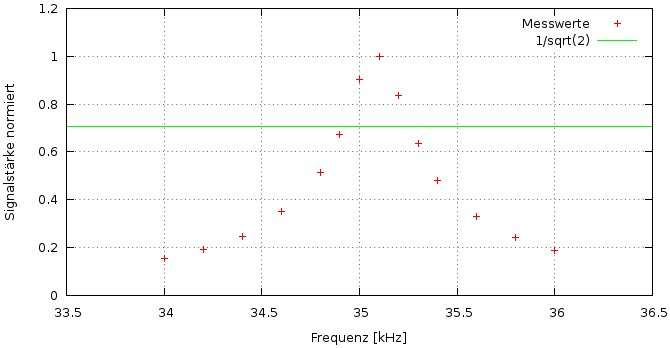
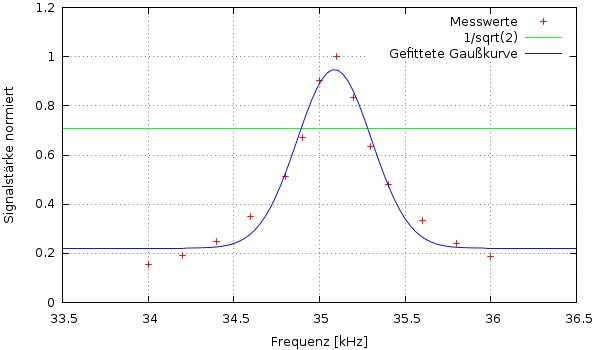
new file:   14.606 Suszeptibilitaet/daten/auswertung.ods 	modified:   14.606 Suszeptibilitaet/daten/daten 	modified:   14.606 Suszeptibilitaet/daten/ploot 	deleted:    14.606 Suszeptibilitaet/daten/werte.ods 	modified:   14.606 Suszeptibilitaet/pics/guete.jpg 	modified:   14.606 Suszeptibilitaet/pro

diff --git a/14.606 Suszeptibilitaet/protokoll.tex b/14.606 Suszeptibilitaet/protokoll.tex
@@ -192,9 +192,21 @@ Zu Beginn wird die Durchlassfrequenz des Selektiv-Verstärkers auf die Signalfre
 Ausgangsspannung gefunden hat, und gleicht die noch leere Brückenschaltung auf nahe 0 mV ab. Nun wird eine Probe eingeführt und die
 neue Brückenspannung gemessen. Zuletzt wird die Brücke erneut abgeglichen und der Wert von $\Delta R$ notiert. 
 
-\section{Auswertung Theoretisch}
+\section{Filterkurve}
+Zunächst soll die Güte des Selektivverstärkers untersucht werden. Hierzu stellt man eine beliebige Filterfrequenz ein und lässt Signale mit der selben Amplitute aber verschiedenen Frequenzen den Filter passieren. In folgendem Diagram ist die Signalamplitude gegen die Signalfrequenz aufgetragen. Die Filterfrequenz beträgt 35KHz und die Amplitude wurde auf 1 normiert.
+\begin{figure}[htbp]
+\includegraphics[width=0.8\textwidth]{pics/guete.jpg}
+\caption{Gaußfunktion: $e^{-a\cdot (x-c)^2}$ mit a = $10.6\pm 1.5$ und c = $35,08 \pm 0,01$}
+\end{figure}
+
+Die Güte errechnet sich entspechend Abbildung \ref{picfilter} zu:
+\begin{align*}
+Q=\frac{v_0}{v_+ - v_-}=\frac{35080}{35250-34900}=100,23
+\end{align*}
+
+\section{Theoretische Berechnung von $\chi$}
 \subsection{Neodym \ce{Nd_2O_3}}
-Neodym hat 4 Elektronen auf der 4f Schale. Nach abzug der 3 Elektronen für die Oxidbindung verbleiben noch 3 Elektronen in der Schale. Der Gesamtspin S beträgt in diesem Fall 
+Neodym hat 4 Elektronen auf der 4f Schale. Nach Abzug der 3 Elektronen für die Oxidbindung verbleiben noch 3 Elektronen in der Schale. Der Gesamtspin S beträgt in diesem Fall 
 \begin{align*}
 S=\frac{1}{2}+ \frac{1}{2}+ \frac{1}{2} = 1 \frac{1}{2}
 \end{align*}
@@ -209,23 +221,6 @@ Nach Formel \eqref{eq_lande} ergibt sich:
 \begin{align}
 g_J=\frac{3\cdot4,5\cdot5,5+[1,5\cdot2,5-6\cdot7]}{2\cdot 3,5\cdot4,5}=0,73
 \end{align}\\
-N errechnet sich, aus der Stoffdichte und der Probenmasse zu:
-\begin{align}
-N=\frac{2\rho}{m}
-\end{align}
-Für die drei Stoffe ergibt sich damit:\\
-
-\begin{table}[H]
-\begin{tabular}{c|c|c|c}
-  & Neodym & Gadolinium & Dysprosium\\ \hline
-N & $0,0935\cdot10^{23}$ & $0,0881 \cdot10^{23}$ & $0,0901\cdot10^{23}$\\
-\end{tabular}
-\end{table}
-
-Einsetzten in Formel \eqref{eq_chi_theo} ergibt somit:
-\begin{align}
-\chi= \frac{1,26\cdot 10^{-6}\cdot e_0^2\hbar^2 \cdot 0,73^2 \cdot N\cdot 4,5\cdot 5,5}{8\cdot m_e^2 k_B \cdot320}=1464,72
-\end{align}
 
 \subsection{Gadolinium \ce{Gd_2O_3}}
 Gadolinium hat 7 Elektronen auf der 4f Schale. Nach abzug der 3 Elektronen für die Oxidbindung verbleiben immer noch 7. Der Gesamtspin S beträgt in diesem Fall \begin{align*}
@@ -239,18 +234,11 @@ Da die Schale genau zur Hälfte befüllt ist, errechnet sich der Gesamtimpuls zu
 \begin{align*}
 J=|L-S|=L+S=3,5
 \end{align*}
-Nach Gleichung \eqref{eq_N} folgt
-\begin{align}
-	N=\frac{0,01408}{7,40\cdot10^{-9}}\cdot\frac{1}	{19,9\cdot10^{-6}}\cdot6,02\cdot10^{23}=5,76\cdot10^{34}
-\end{align}
+
 Nach Formel \eqref{eq_lande} ergibt sich somit:
-\begin{align}
-g_J=\frac{3\cdot3,5\cdot4,5+3,5\cdot4,5}{2\cdot 3,5\cdot4,5}=2
-\end{align}\\
-Einsetzten in Formel \eqref{eq_chi_theo} ergibt:
-\begin{align}
-\chi= \frac{1,26\cdot 10^{-6}\cdot e_0^2\hbar^2\cdot 2^2 \cdot N\cdot 3,5\cdot 4,5}{8\cdot m_e^2 k_B \cdot320}=12967,3
-\end{align}
+	\begin{align}
+	g_J=\frac{3\cdot3,5\cdot4,5+3,5\cdot4,5}{2\cdot 3,5\cdot4,5}=2
+	\end{align}\\
 
 \subsection{Dysprosium \ce{Dy_2O_3}}
 Dysprosium hat 10 Elektronen auf der 4f Schale. Nach abzug der 3 Elektronen für die Oxidbindung verbleiben noch 9. Der Gesamtspin S beträgt in diesem Fall 
@@ -268,50 +256,125 @@ J=L+S=7,5
 \end{align*}
 Nach Formel \eqref{eq_lande} ergibt sich:
 \begin{align}
-g_J=\frac{3\cdot7,5\cdot8,5+[2,5\cdot3,5-5\cdot6]}{2\cdot 7,5\cdot8,5}=1 \frac{1}{3}
+g_J=\frac{3\cdot7,5\cdot8,5+[2,5\cdot3,5-5\cdot6]}{2\cdot 7,5\cdot8,5}=1,33
 \end{align}\\
-Nach Gleichung \eqref{eq_N} folgt
+
+\subsection{Ergebnisse}
+Für die Bestimmung von $\chi$ muss des weiteren N bekannt sein, dieses errechnet sich, zu:
 \begin{align}
-	N=\frac{0,0166}{7,80\cdot10^{-9}}\cdot\frac{1}	{19,01\cdot10^{-6}}\cdot6,02\cdot10^{23}=6,74\cdot10^{34}
+N=\frac{2\rho}{m}\cdot N_A
 \end{align}
-Einsetzten in Formel \eqref{eq_chi_theo} ergibt:
-\begin{align}
-\chi= \frac{1,26\cdot 10^{-6}\cdot e_0^2\hbar^2\cdot 1,07^2 \cdot N\cdot 7,5\cdot 8,5}{8\cdot m_e^2 k_B\cdot320}=15049,90
-\end{align}
+Dabei ist $\rho$ die Dichte der Probe, m die Molare Masse des Stoffes und $N_A$ die Avogadrokonstante.
+
+Für die drei Stoffe ergibt sich damit:
+
+\begin{table}[H]
+\begin{tabular}{c|c|c|c|}
+   & Neodym & Gadolinium & Dysprosium\\ \hline
+  S& 1,5 & 3,5 & 2,5 \\ \hline
+  L& 6   & 0   & 5   \\ \hline
+  J& 4,5 & 3,5 & 7,5 \\ \hline
+  $g_J$& 0,73 & 2,00 & 1,33 \\ \hline
+N & $2,59\cdot10^{28}$ & $2,46 \cdot10^{28}$ & $2,52\cdot10^{28}$\\ \hline
+\end{tabular}
+\end{table}
+
+Setzt man die Zwischenwerte in Gleichung $ $ ein, so erhält man für die magnetischen Suszeptibilitäten:
+\begin{align*}
+\chi_{Nd}&=3,04\cdot10^{-3}\\
+\chi_{Gd}&=13,80\cdot10^{-3}\\
+\chi_{Dy}&=25,3\cdot10^{-3}
+\end{align*}
 
 \section{Auswertung aus Messwerten}
-Die Werte für $\chi$ lassen sich auch mit dem im Versuch benutzen Aufbau errechnen. Die folgende Tabelle enthält die Messwerte zu allen drei Elementen. Jede Messung wurde fünf mal durchgeführt $R3$ bezeichnet den Widerstand, bei dem die Spannung ohne eingeführten Probestab minimal (dh. V) ist. Beim Widerstand $R3 + \Delta R$ ist die Spannung beim eingeführten Probestab minimal (ebenfalls bei V abzulesen).
+Die Werte für $\chi$ lassen sich auch mit dem im Versuch benutzen Aufbau errechnen. Die folgende Tabelle enthält dazu alle Messwerte. Jede Messung wurde fünf mal durchgeführt. Zunächst wurde die Brückenspannung durch einstellen des Widerstandes $R$ auf die Spannung $U$ minimiert. Wenn der Stab mit der Probe in die Spule eingeführt wird, beginnt die Brückenspannung zu steigen. Der Widerstand wird nun so angepasst ($R + \Delta R$), dass die neue Spannung ($U + \Delta U$) wieder minimal wird.
 
 \begin{table}[htbp]
-\begin{tabular}{l!{\vrule width 1.5pt}c|c!{\vrule width 1.5pt}c|c!{\vrule width 1.5pt}c|c|}
-& \ce{Nd_2O_3} & & \ce{Gd_2O_3} & & \ce{Dy_2O_3} & \\
- & m$\Omega$ & mV & m$\Omega$ & mV & m$\Omega$ & mV \\
-\hline
-$R_3$&2830 & 1.20 & 2833 & 1.15 & 2835 & 1.70 \\ \hline
-$R_3 + \Delta R$&2735 & 2.21 & 2064 & 1.32 & 1173 & 1.50 \\ \hline
-$R_3$&2830 & 1.90 & 2750 & 1.75 & 2770 & 1.80 \\ \hline
-$R_3 + \Delta R$&2705 & 1.90 & 1985 & 1.40 & 1125 & 1.60 \\ \hline
-$R_3$&2775 & 1.85 & 2780 & 1.87 & 2835 & 1.90 \\ \hline
-$R_3 + \Delta R$&2650 & 1.80 & 2060 & 1.41 & 1160 & 1.59 \\ \hline
-$R_3$&2805 & 1.85 & 2805 & 1.89 & 2785 & 1.81 \\ \hline
-$R_3 + \Delta R$&2675 & 1.76 & 1965 & 1.40 & 1165 & 1.70 \\ \hline
-$R_3$&2825 & 1.75 & 2835 & 1.80 & 2805 & 1.69 \\ \hline
-$R_3 + \Delta R$&2680 & 1.70 & 2060 & 1.40 & 1160 & 1.76 \\ \hline
+\begin{tabular}{|c|c|c|}
+Messung	& R $[m\Omega]$	&$U_{min}$ [mV]\\ \hline
+1&	2830&	1.20\\ \hline
+2&	2830&	1.90\\ \hline
+3&	2775&	1.85\\ \hline
+4&	2805&	1.85\\ \hline
+5&	2825&	1.75\\ \hline
 \end{tabular}
-\caption{Aufgenommene Werte}
+\begin{tabular}{|c|c|c|}
+Messung	& R$+\Delta$R $[m\Omega]$&$U_{min}$ [mV] \\ \hline
+1&	2735&	2.21\\ \hline
+2&	2705&	1.90\\ \hline
+3&	2650&	1.80\\ \hline
+4&	2675&	1.76\\ \hline
+5&	2680&	1.70\\ \hline
+\end{tabular}
+\caption{Aufgenommene Werte für Neodym (\ce{Nd_2O_3})}
 \label{t_werte}
 \end{table}
 
-Mittels Formel \eqref{eq_chi_rechnung} kann nun das $\chi$ für die verschiedenen Elemente bestimmt werden. Nach Mittelung der Werte aus Tabelle \ref{t_werte} und einsetzten ergibt sich für das $\chi$:
-\begin{align*}
-\chi_{Nd}&=11,35\pm 0,00005\\
-\chi_{Gd}&=46,47\pm 0,0002\\
-\chi_{Dy}&=88,38\pm 0,00006
-\end{align*}
-\section{Diskussion}
-Die gemessenen Werte wurden sehr genau aufgenommen, wie die kleine Streuung der Zahlen zeigt. Sie stehen zudem in einem sinnigen Verhältnis zueinander, welches sehr gut die Differenz in der Anzahl der F-Schalen Elektronen widerspiegelt. Leider wurden bei der Messung der Werte nicht der Spannungsausschlag aufgezeichnet, der entsteht, wenn die Probe in die Messröhre hineingeschoben wird. Mit ihm hätte man die Werte nochmals korrigieren können.\\
-Die Messwerte weichen jedoch sehr stark von den errechneten Theoriewerten ab. Dies ist jedoch eher auf einen Fehler in den Theoriewerten zurückzuführen, da die Werte schlicht zu hoch sind.
+\begin{table}[htbp]
+\begin{tabular}{|c|c|c|}
+Messung	& R $[m\Omega]$	&$U_{min}$ [mV]\\ \hline
+1&	2833&	1.15\\ \hline
+2&	2750&	1.75\\ \hline
+3&	2780&	1.87\\ \hline
+4&	2805&	1.89\\ \hline
+5&	2835&	1.80\\ \hline
+\end{tabular}
+\begin{tabular}{|c|c|c|}
+Messung	& R$+\Delta$R $[m\Omega]$&$U_{min}$ [mV] \\ \hline
+1&	2064&	1.32\\ \hline
+2&	1985&	1.40\\ \hline
+3&	2060&	1.41\\ \hline
+4&	1965&	1.40\\ \hline
+5&	2060&	1.40\\ \hline
+\end{tabular}
+\caption{Aufgenommene Werte für Gadolinium (\ce{Gd_2O_3})}
+\label{t_werte}
+\end{table}
 
+\begin{table}[htbp]
+\begin{tabular}{|c|c|c|}
+Messung	& R $[m\Omega]$	&$U_{min}$ [mV]\\ \hline
+1&	2835&	1.70\\ \hline
+2&	2770&	1.80\\ \hline
+3&	2835&	1.90\\ \hline
+4&	2785&	1.81\\ \hline
+5&	2805&	1.69\\ \hline
+
+\end{tabular}
+\begin{tabular}{|c|c|c|}
+Messung	& R$+\Delta$R $[m\Omega]$&$U_{min}$ [mV] \\ \hline
+1&	1173&	1.50\\ \hline
+2&	1125&	1.60\\ \hline
+3&	1160&	1.59\\ \hline
+4&	1165&	1.70\\ \hline
+5&	1160&	1.76\\ \hline
+
+\end{tabular}
+\caption{Aufgenommene Werte für Dysprosium (\ce{Dy_2O_3})}
+\label{t_werte}
+\end{table}
+
+
+Mittels Formel \eqref{eq_chi_rechnung} kann nun das $\chi$ für die verschiedenen Elemente bestimmt werden. Nach Mittelung der Werte aus Tabelle \ref{t_werte} und einsetzten ergibt sich für das $\chi$:\\
+
+Widerstand:
+\begin{align*}
+\chi_{Nd}&=(2,8\pm 0,6)\cdot10^{-3}\\
+\chi_{Gd}&=(11\pm 2)\cdot10^{-3}\\
+\chi_{Dy}&=(22\pm 0,7)\cdot10^{-3}
+\end{align*}
+
+Spannung:
+\begin{align*}
+\chi_{Nd}&=(1,8\pm 0,01)\cdot10^{-3}\\
+\chi_{Gd}&=(2,2\pm 0,02)\cdot10^{-3}\\
+\chi_{Dy}&=(0,9\pm 0,17)\cdot10^{-3}
+\end{align*}
+
+\section{Diskussion}
+Die Güte der Messkurve konnte sehr genau berechnet werden. Auch wenn die gefittete Gaußkurve nicht sehr gut an alle Werte anliegt und das Maximum nicht fein genug aufgelöst wurde, so heben sich diese Ungenauigkeiten offenbar gerade auf.\\
+Die theoretischen Suszeptibilitäten stimmten sehr gut mit den Literaturwerten und den, durch die Widerstandsmessung berechneten Werten überein. Einzig der Wert von Dysprosium weicht etwas stark nach unten ab, aber dies kann daran liegen, dass die Brückenspannung bei großen Differenzen ungenauer arbeitet.\\
+Die Werte für die Spannungsmessung dagegen liegen deutlich daneben. Dies liegt jedoch daran, dass die Messung nicht korrekt war. Anstelle beide Male die minimale Spannung abzulesen, hätte der Peak, der beim einführen der Probe entsteht, notiert werden müssen. Folglich sind diese Werte nicht repräsentativ.
 
 % ========================================
 %	Literaturverzeichnis
